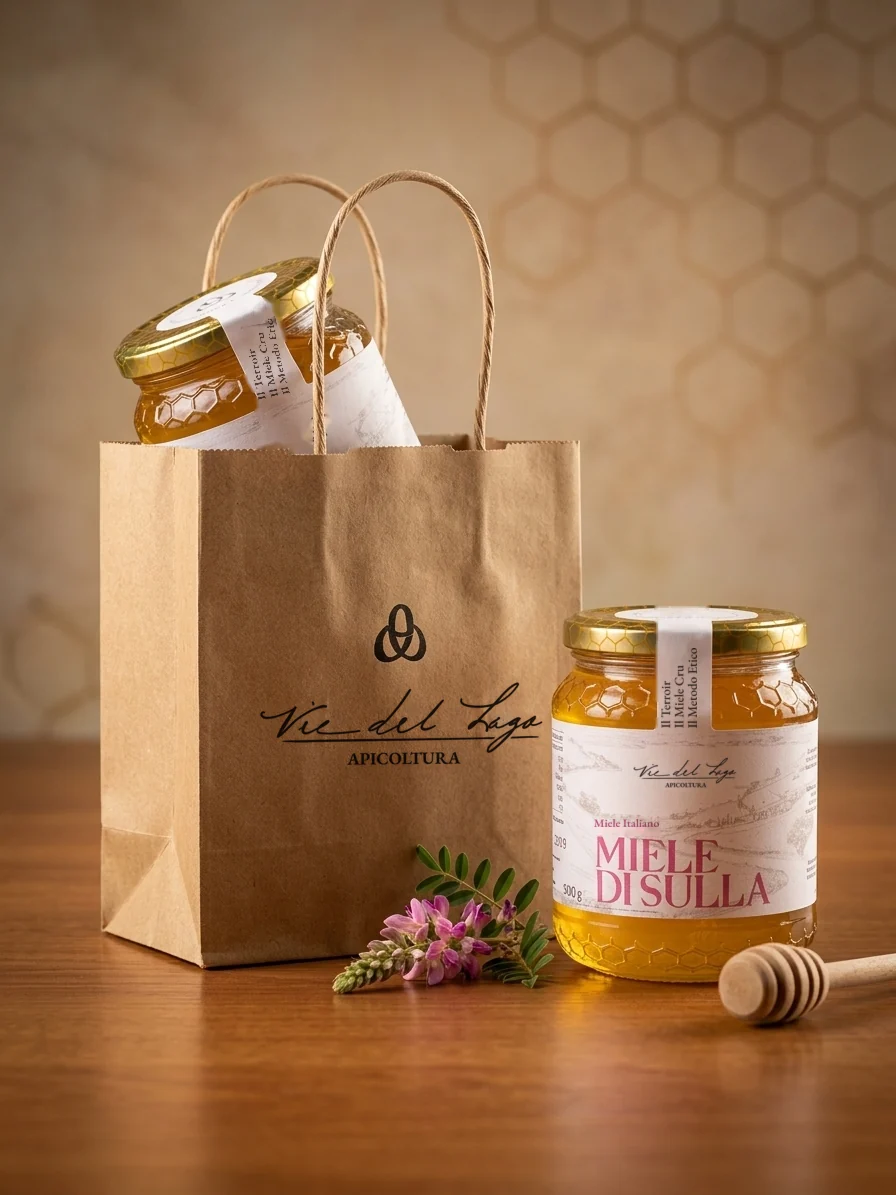
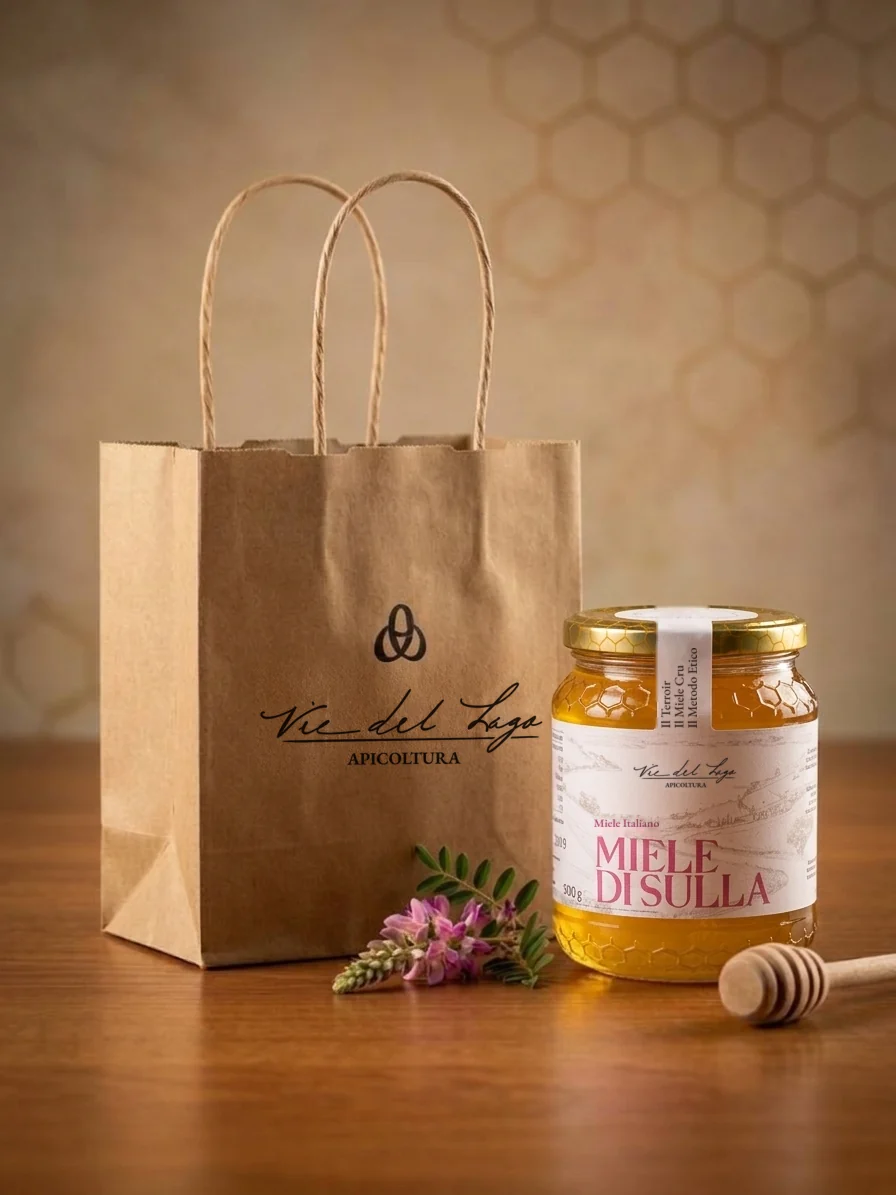
Foto di Natale: busta vuota accanto al vasetto di Sulla
Claude-Session: https://claude.ai/code/session_0158YTuXUDsj15VT1c2xNVLb

diff --git a/natale.html b/natale.html
@@ -135,7 +135,7 @@
         <p data-rivela style="--i:3"><a class="btn" href="sulla.html">Scopri il Miele di Sulla <span class="freccia" aria-hidden="true">→</span></a></p>
       </div>
         </div>
-        <figure style="margin:0"><div class="foto-alta svela"><img src="img/natale-busta.webp" alt="Due vasetti di Miele di Sulla con la busta regalo Vie del Lago e un rametto fiorito" width="896" height="1195" loading="lazy"></div></figure>
+        <figure style="margin:0"><div class="foto-alta svela"><img src="img/natale-busta.webp" alt="Un vasetto di Miele di Sulla accanto alla busta regalo Vie del Lago e un rametto fiorito" width="896" height="1195" loading="lazy"></div></figure>
       </div>
     </div>
   </section>

diff --git a/en/natale.html b/en/natale.html
@@ -135,7 +135,7 @@
         <p data-rivela style="--i:3"><a class="btn" href="/en/sulla.html">Discover Sulla Honey <span class="freccia" aria-hidden="true">→</span></a></p>
       </div>
         </div>
-        <figure style="margin:0"><div class="foto-alta svela"><img src="/img/natale-busta.webp" alt="Two jars of Sulla Honey with the Vie del Lago gift bag and a flowering sprig" width="896" height="1195" loading="lazy"></div></figure>
+        <figure style="margin:0"><div class="foto-alta svela"><img src="/img/natale-busta.webp" alt="A jar of Sulla Honey next to the Vie del Lago gift bag and a flowering sprig" width="896" height="1195" loading="lazy"></div></figure>
       </div>
     </div>
   </section>

diff --git a/scripts/traduzione/traduzioni.py b/scripts/traduzione/traduzioni.py
@@ -1224,4 +1224,5 @@ T = {
 'Ciao Vie del Lago, vorrei prenotare un regalo di Natale:': "Hello Vie del Lago, I'd like to book a Christmas gift:",
 'Da regalare a Natale: prenota e ritira in azienda →': 'Give it for Christmas: book and collect at our farm →',
 'Due vasetti di Miele di Sulla con la busta regalo Vie del Lago e un rametto fiorito': 'Two jars of Sulla Honey with the Vie del Lago gift bag and a flowering sprig',
+'Un vasetto di Miele di Sulla accanto alla busta regalo Vie del Lago e un rametto fiorito': 'A jar of Sulla Honey next to the Vie del Lago gift bag and a flowering sprig',
 }
